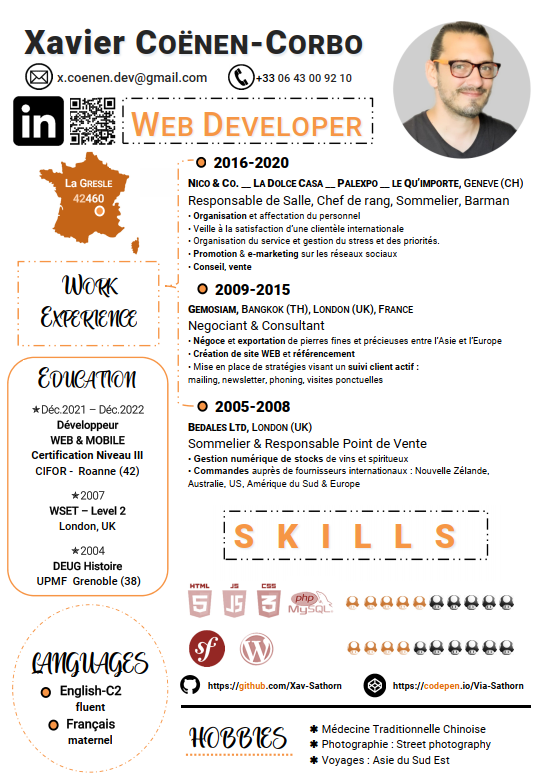
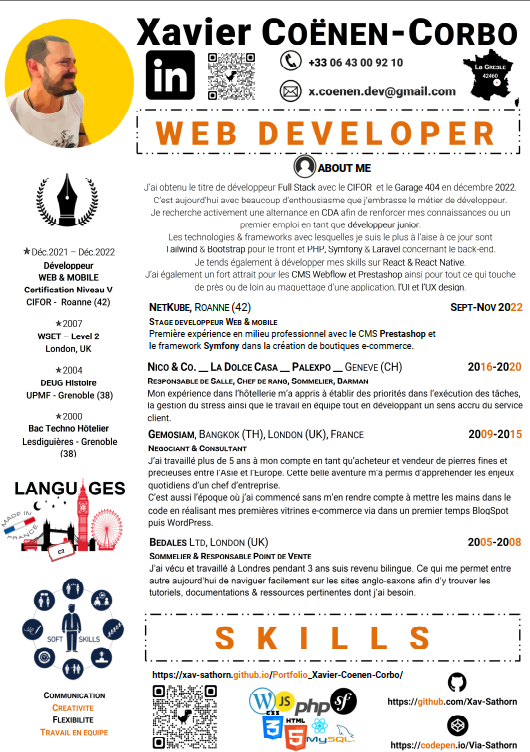
maj_diploma

diff --git a/index.html b/index.html
@@ -18,8 +18,9 @@
     <title>Xavier COËNEN-CORBO | WEB Developer</title>
     <meta name="viewport" content="width=device-width" />
     <link rel="icon" type="image/.png"
-        href="./favicons/kisspng-chimpanzee-monkey-illustration-monkey-pattern-5aa28b231ab332.3908264115206018911094.png">
+    href="./favicons/kisspng-chimpanzee-monkey-illustration-monkey-pattern-5aa28b231ab332.3908264115206018911094.png">
     <script src="https://kit.fontawesome.com/b7f6729642.js" crossorigin="anonymous"></script>
+    
 </head>
 
 </head>
@@ -33,7 +34,7 @@
         <h2>Web & Mobile Developer</h2>
         <img src="./img/xavpoly.jpg" alt="logo" id="logoCv">
         <p><a href="" id="type-code" class="typewrite" data-period="2000"
-                data-type='[ "$ Bonjour !","..."," $ Je m&#039appelle Xavier !", "$ Je suis étudiant en développement Web & mobile !", "$ Je suis passionné et créatif!" ]'>
+                data-type='[ "$ Bonjour !","..."," $ Je m&#039appelle Xavier !", "$ Je suis diplômé en développement Web & Web Mobile", "$ Je recherche une alternance en C.D.A ou...","$ Un premier emploi en tant que Développeur Web Junior!", "$ Je suis passionné et créatif!" ]'>
                 <span class="wrap"></span>
             </a></p>
     </header>
@@ -58,19 +59,20 @@
                     <dd>5</dd>
                     <dt class="skill-10">SQL</dt>
                     <dd>10</dd>
-                    <dt class="skill-3">WordPress</dt>
+                    <dt class="skill-3">C.M.S</dt>
                     <dd>3</dd>
                     <dt class="skill-8">PHP</dt>
                     <dd>8</dd>
-                    <dt class="skill-4">HTML5</dt>
+                    <dt class="skill-9">HTML5</dt>
                     <dd>4</dd>
                     <dt class="skill-6">Symfony</dt>
                     <dd>6</dd>
-                    <dt class="skill-7">JavaScript</dt>
+                    <dt class="skill-11">Laravel</dt>
                     <dd>7</dd>
-                    <dt class="skill-9">CSS / SCSS</dt>
+                    <dt class="skill-3">FIGMA / UX</dt>
+                    <dd>3</dd>
+                    <dt class="skill-8">CSS / SCSS</dt>
                     <dd>9</dd>
-                    <dd>2</dd>
                 </dl>
             </div>
             <div class="soft-skills">
@@ -120,18 +122,17 @@
             <div class="about" id="about-me">
                 <h2><span><i class="fa-solid fa-user-astronaut"></i>
                     </span>ABOUT ME</h2>
-                <p>Je suis actuellement en formation avec le CIFOR pour obtenir un diplôme de développeur Web et Mobile.
+                <p>J’ai obtenu le titre de développeur Full Stack avec le CIFOR  et le Garage 404 en décembre 2022
                     <br>
                     Avant de commencer cette aventure j'ai eu d'autres expériences professionnelles et humaines variées
                     qui
-                    m'ont enrichi.<br>
-                    C'est aujourd'hui avec beaucoup d'enthousiasme que j'embrasse le métier de développeur.<br>
-                    Je suis patient, persévérant et extrêmement curieux et aime relever de nouveaux défis.<br>
-                    Les technologies avec lesquelles je me sens le plus à l'aise à ce jour sont PHP et Javascript,
-                    j'apprécie beaucoup Symfony et je commence tout juste avec React.<br>
-                    J'espère trouver une entreprise apte à m'accompagner dans mon évolution afin de me rendre autonome
-                    très
-                    rapidement.
+                    m'ont enrichi.<br>C’est aujourd’hui avec beaucoup d’enthousiasme que j’embrasse le métier de développeur.<br>
+                    Je recherche activement une alternance en CDA afin de renforcer mes connaissances ou un premier emploi en tant que développeur junior.<br>
+                    Les technologies & frameworks avec lesquelles je suis le plus à l’aise à ce jour sont 
+Tailwind & Bootstrap pour le front et PHP, Symfony & Laravel concernant le back-end. 
+<br>
+Je tends également à développer mes skills sur React & React Native.<br>
+J’ai également un fort attrait pour les CMS Webflow et Prestashop ainsi pour tout ce qui touche de près ou de loin au maquettage d’une application, l’UI et l’UX design.
 
                 </p>
             </div>
@@ -139,6 +140,17 @@
             <div id="work">
                 <h2><span><i class="fa-solid fa-briefcase"></i>
                     </span>WORK EXPERIENCE</h2>
+
+                    <div class="work-group">
+                        <h5>SEPT-NOV 2022</h5>
+                        <h3>STAGE DEVELOPPEUR WEB & MOBILE</h3>
+                        <h4>NETKUBE, ROANNE (42)</h4>
+                        <p>Première expérience en milieu professionnel avec le CMS Prestashop et 
+                            le framework Symfony dans la création de boutiques e-commerce.
+                            
+                        </p>
+                    </div>
+
                 <div class="work-group">
                     <h5>2016-2020</h5>
                     <h3>RESPONSABLE DE SALLE, SOMMELIER, BARMAN</h3>
@@ -175,12 +187,12 @@
             <div class="education" id="education">
                 <h2><span><i class="fa-solid fa-graduation-cap"></i></span>EDUCATION</h2>
                 <div class="edu-group">
-                    <h5>2021 – Present </h5>
+                    <h5>2022 </h5>
                     <h3>DEVELOPPEUR
                         WEB & MOBILE
                     </h3>
-                    <p>Certification Niveau III
-                        CIFOR - Roanne (42)
+                    <p>Certification Niveau V
+                        - CIFOR & GARAGE 404 - Roanne (42)
                     </p>
                 </div>
                 <div class="edu-group">
@@ -213,6 +225,7 @@
 
         <section id="picture_project">
             <h3>Projects</h3>
+            
             <div id="projects-video">
                 <div class="project">
                     <video class="video" poster="./videos/flag.png" controls loop width="100%"

diff --git a/style.css b/style.css
@@ -462,10 +462,9 @@ footer {
 .skills-diagram .skill-6 {
     vertical-align: top;
 
-    width: 6em;
-    height: 6em;
-    line-height: 6em;
-
+    width: 10em;
+    height: 10em;
+    line-height: 10em;
     background-color: rgba(195, 192, 100, .3);
     border-color: rgba(195, 192, 100, 1);
     color: rgba(195, 192, 100, 1);
@@ -506,6 +505,16 @@ footer {
     width: 7em;
     height: 7em;
     line-height: 7em;
+    background-color: rgba(81, 112, 144, .3);
+    border-color: rgba(81, 112, 144, 1);
+    color: rgba(81, 112, 144, 1);
+    margin-bottom: 3em;
+}
+
+.skills-diagram .skill-11 {
+    width: 10em;
+    height: 10em;
+    line-height: 10em;
     background-color: rgba(81, 112, 144, .3);
     border-color: rgba(81, 112, 144, 1);
     color: rgba(81, 112, 144, 1);
